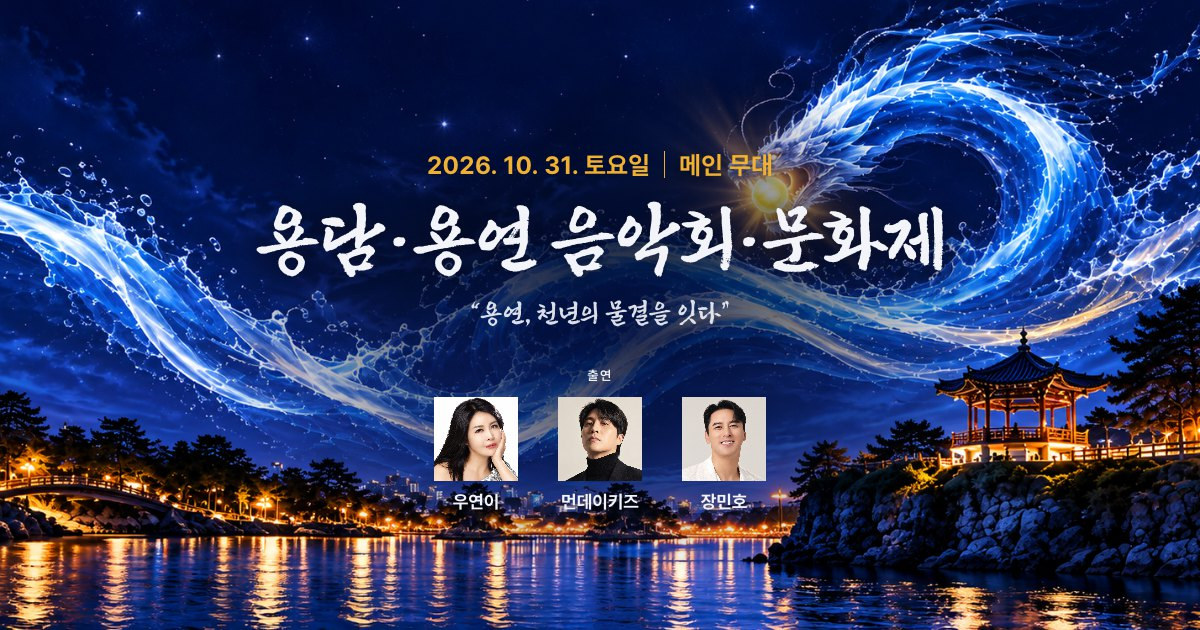
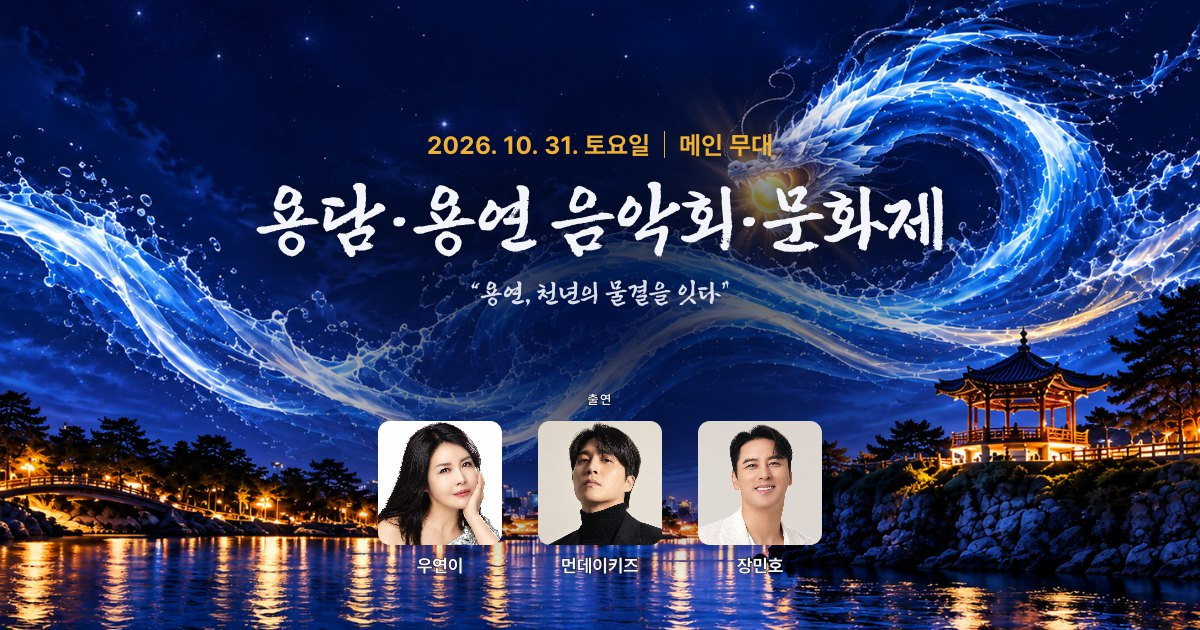
Enlarge lineup, cap 드래곤볼 at 150, and tidy application texts
- Hero: bigger artist photos with outlined names, lineup moved lower;
  share image regenerated
- 찾아라 드래곤볼: online signup capped at 150 (admin/7-stamp-capacity.sql),
  on-site signup notice; souvenir note in step 6
- 용의 산책: 30 per route (admin/6-walk-capacity-30.sql), 선착순 60명
- 예술의 물결: activity photo upload removed
- Application header: 참가신청 label removed, title in Pretendard;
  recruit heading in Pretendard; 오시는 길 heading sizes match schedule
- Venue text trimmed to 메인무대 / 드래곤러너 안내부스; card text cleanup

Changed region(s): [[0.2158, 0.2111, 0.8017, 0.5127], [0.3083, 0.573, 0.7092, 0.9349]]

diff --git a/src/applications.ts b/src/applications.ts
@@ -112,14 +112,14 @@ export const PROGRAMS = {
   walk: {
     name: '용의 산책',
     sub: '용띠들 모여라 · 퍼레이드 참가자 모집',
-    cap: '선착순 70명',
+    cap: '선착순 60명',
     early: true,
     info: [
       ['일시', '2026. 10. 31.(토) 오전 10:00 ~ 11:00', '※ 오전 9시 50분까지 해당 동사무소에 도착해 인원 체크를 합니다.'],
       ['장소', '용담1동 동사무소 또는 용담2동 동사무소'],
       ['참가대상', '용띠라면 누구나 (어린이~성인·가족 가능)'],
       ['참가자', '기념품 지급'],
-      ['모집인원', '용담1동 35명 / 용담2동 35명'],
+      ['모집인원', '용담1동 30명 / 용담2동 30명'],
     ],
     req: [
       ['name', '성명', 'name', '홍길동'],
@@ -141,20 +141,22 @@ export const PROGRAMS = {
   stamp: {
     name: '찾아라 드래곤볼',
     sub: '용의 길 스탬프 투어 참가자 모집',
-    cap: '누구나 참가',
+    cap: '선착순 150명',
+    early: true,
     info: [
       ['운영시간', '2026. 10. 31.(토) 11:00~17:30'],
       ['마감', '마지막 출발 15:00 / 완주 확인 17:30'],
       ['참가대상', '누구나 (어린이·청소년·가족·관광객)'],
       ['참가비', '무료 · 완주 시 기념품', '※ 기념품은 준비수량에 따라 조기 소진될 수 있습니다.'],
     ],
+    notice: '온라인 사전접수는 선착순 150명까지 받습니다. 마감 후에는 행사 당일 운영본부에서 현장 신청해 주세요.',
     steps: [
       ['사전접수', ''],
       ['스탬프북 수령', '행사 당일 운영본부에서 신청자 확인 후 스탬프북 수령'],
       ['7대 명소 자유 탐방', '지도를 보고 원하는 순서대로 명소 방문'],
       ['스탬프 미션 수행', '각 장소에서 스탬프 또는 인증미션 완료'],
       ['완주 인증', '7개의 스탬프를 모두 모은 뒤 운영본부 방문'],
-      ['완주 기념품 수령', '완주 확인 후 기념품 증정'],
+      ['완주 기념품 수령', '완주 확인 후 기념품 증정 (준비수량 소진 시 조기 마감)'],
     ],
     mates: true,
     req: [
@@ -167,6 +169,8 @@ export const PROGRAMS = {
     ],
     when: '2026. 10. 31.(토) 11:00~17:30',
     where: '운영본부 (스탬프북 수령)',
+    capacity: { rpc: 'stamp_remaining', countField: 'count' },
+    fullNote: '온라인 사전접수(선착순 150명)가 마감되었습니다.\n행사 당일 운영본부에서 현장 신청해 주세요.',
     doneNote: '현장 안내부스에서 스탬프북을 받아 주세요.',
   },
   runner: {
@@ -176,7 +180,7 @@ export const PROGRAMS = {
     early: true,
     info: [
       ['일시', '2026. 10. 31.(토) 18:30~20:30\n마지막 출발 19:30\n도착 완주 확인 20:30까지'],
-      ['집결', '드래곤러너 안내부스 (용연구름다리 일대)'],
+      ['집결', '드래곤러너 안내부스'],
       ['참가비', '무료\n완주 기념품 지급 (선착순 150명까지)'],
     ],
     notice:
@@ -230,7 +234,7 @@ export const PROGRAMS = {
     schedule: RECRUIT_SCHEDULE,
     info: [
       ['공연 일시', '2026. 10. 31.(토) 13:00~15:00'],
-      ['장소', '용연 구름다리 일대 메인무대'],
+      ['장소', '메인무대'],
       ['모집분야', '노래·밴드·댄스·난타·악기연주·퍼포먼스 등 (장르 제한 없음)'],
       ['모집규모', '8팀 (용담1동 3팀 / 용담2동 3팀 / 청소년팀 2팀)'],
       ['선정팀 공연비', '300,000원'],
@@ -259,10 +263,7 @@ export const PROGRAMS = {
       ['content', '공연내용 (곡명·소개)', 'area', '곡명과 공연 구성을 적어 주세요'],
       ['intro', '팀(본인) 소개 (100~200자)', 'area', '팀(본인)을 소개해 주세요'],
     ],
-    attach: [
-      ['photo', '활동사진 1장', 'file', 'JPG·PNG 파일'],
-      ['video', '공연영상 링크 (1~3분)', 'video', 'https://'],
-    ],
+    attach: [['video', '공연영상 링크 (1~3분)', 'video', 'https://']],
     when: '2026. 10. 31.(토) 13:00~15:00',
     doneNote: '서류 심사 후 선정 결과를 개별 연락드립니다.',
   },
@@ -315,7 +316,7 @@ export const PROGRAMS = {
     info: [
       ['모집대상', '노래를 좋아하는 누구나'],
       ['본선', '2026. 10. 31.(토) 16:00~17:00'],
-      ['장소', '용연 구름다리 일대 메인무대'],
+      ['장소', '메인무대'],
       ['참가형태', '개인 / 듀엣 / 팀'],
       ['예선방법', '제출 영상 온라인 심사'],
       ['결과발표', '10. 19. 결과 개별 안내 (본선 진출자)'],
@@ -327,7 +328,7 @@ export const PROGRAMS = {
       ['온라인 영상 예선심사', '제출한 참가영상으로 심사 진행'],
       ['본선 8팀 선정', '선정자에게 개별 연락'],
       ['MR 및 무대자료 제출', '본선 참가곡 MR 및 필요한 자료 제출'],
-      ['용연가요제 본선 참가', '10월 31일(토) 용연 구름다리 일대 메인무대'],
+      ['용연가요제 본선 참가', '10월 31일(토) 메인무대'],
     ],
     tables: [
       {

diff --git a/src/App.css b/src/App.css
@@ -198,7 +198,7 @@
   gap: 14px;
   margin-top: 22px; /* 40px total with the parent gap */
   /* Nudged lower without changing the hero height */
-  transform: translateY(24px);
+  transform: translateY(44px);
 }
 
 .hero__lineup-label {
@@ -227,7 +227,7 @@
 /* Thin black outline so the names and "출연" stay readable on the bright photo */
 .hero__lineup-label,
 .hero__artists li span {
-  -webkit-text-stroke: 0.5px #000000;
+  -webkit-text-stroke: 0.8px #000000;
   paint-order: stroke fill;
 }
 
@@ -254,6 +254,13 @@
   justify-content: space-between;
   flex-wrap: wrap;
   gap: 16px;
+}
+
+/* Recruit heading in Pretendard (other section headings stay in MaruBuri) */
+.recruit__title {
+  font-family: var(--font-sans);
+  font-weight: 800;
+  letter-spacing: -0.02em;
 }
 
 .recruit__deadline {
@@ -736,8 +743,10 @@
   gap: 18.9px;
 }
 
+/* Same sizes as the 프로그램 시간표 / 10월 31일 토요일 heading pair */
 .location__info .heading-serif {
   margin-top: 8px;
+  font-size: 25px;
 }
 
 .location__address {
@@ -977,7 +986,7 @@
   .hero__lineup {
     gap: 10px;
     margin-top: 16px; /* 28px total with the parent gap */
-    transform: translateY(16px);
+    transform: translateY(30px);
   }
 
   .hero__lineup-label {
@@ -1278,7 +1287,7 @@
 
   .location__info .heading-serif {
     margin-top: 6px;
-    font-size: 24px;
+    font-size: 18px;
     letter-spacing: 0;
   }
 

diff --git a/src/data.ts b/src/data.ts
@@ -42,12 +42,12 @@ export type Program = {
 }
 
 export const programs: Program[] = [
-  { no: '01', apply: 'walk', title: '용의 산책', description: '“용띠들 모여라” 퍼레이드', capacity: '선착순 70명' },
+  { no: '01', apply: 'walk', title: '용의 산책', description: '“용띠들 모여라” 퍼레이드', capacity: '선착순 60명' },
   { no: '02', apply: 'culture', title: '예술의 물결', capacity: '8팀 선정' },
   { no: '03', apply: 'busking', title: '찾아가는 버스킹', capacity: '6팀 선정' },
   { no: '04', apply: 'song', title: '용연가요제', capacity: '8팀 선정' },
-  { no: '05', apply: 'runner', title: '드래곤러너', capacity: '선착순 150명', note: '마감 후 현장 신청' },
-  { no: '06', apply: 'stamp', title: '찾아라 드래곤볼', description: '스탬프투어' },
+  { no: '05', apply: 'runner', title: '드래곤러너', capacity: '선착순 150명' },
+  { no: '06', apply: 'stamp', title: '찾아라 드래곤볼', capacity: '선착순 150명', note: '마감 후 현장 신청' },
 ]
 
 export type Wave = {

diff --git a/src/App.tsx b/src/App.tsx
@@ -100,7 +100,7 @@ function Recruit() {
   return (
     <section id="apply" className="recruit">
       <div className="recruit__head">
-        <h2 className="heading-serif">함께할 참가자를 모집합니다</h2>
+        <h2 className="heading-serif recruit__title">함께할 참가자를 모집합니다</h2>
         <div className="recruit__deadline">
           <span className="recruit__deadline-label">신청 기간</span>
           <span className="recruit__deadline-date">{APPLY_PERIOD_LABEL}</span>
@@ -268,7 +268,7 @@ function Location() {
       </a>
       <div className="location__info">
         <div className="location__heading">
-          <p className="section-eyebrow section-eyebrow--small">오시는 길</p>
+          <p className="section-eyebrow">오시는 길</p>
           <h2 className="heading-serif">용담이동 461</h2>
         </div>
         <p className="location__address">

diff --git a/src/ApplicationPage.css b/src/ApplicationPage.css
@@ -59,16 +59,9 @@
   color: var(--paper);
 }
 
-.apply-hero__eyebrow {
-  font-weight: 700;
-  font-size: 13px;
-  letter-spacing: 0.12em;
-  color: var(--gold);
-}
-
 .apply-hero h1 {
-  font-family: var(--font-serif);
-  font-weight: 700;
+  font-family: var(--font-sans);
+  font-weight: 800;
   font-size: 48px;
   letter-spacing: -0.02em;
 }
@@ -1213,10 +1206,6 @@
   .apply-hero {
     gap: 8px;
     padding: 28px 20px;
-  }
-
-  .apply-hero__eyebrow {
-    font-size: 12px;
   }
 
   .apply-hero h1 {

diff --git a/src/ApplicationPage.tsx b/src/ApplicationPage.tsx
@@ -576,7 +576,6 @@ function ApplyForm({
   return (
     <>
       <section className="apply-hero">
-        <span className="apply-hero__eyebrow">참가신청</span>
         <h1>{p.name}</h1>
         <span className="apply-hero__sub">{p.sub}</span>
         <div className="apply-hero__badges">
